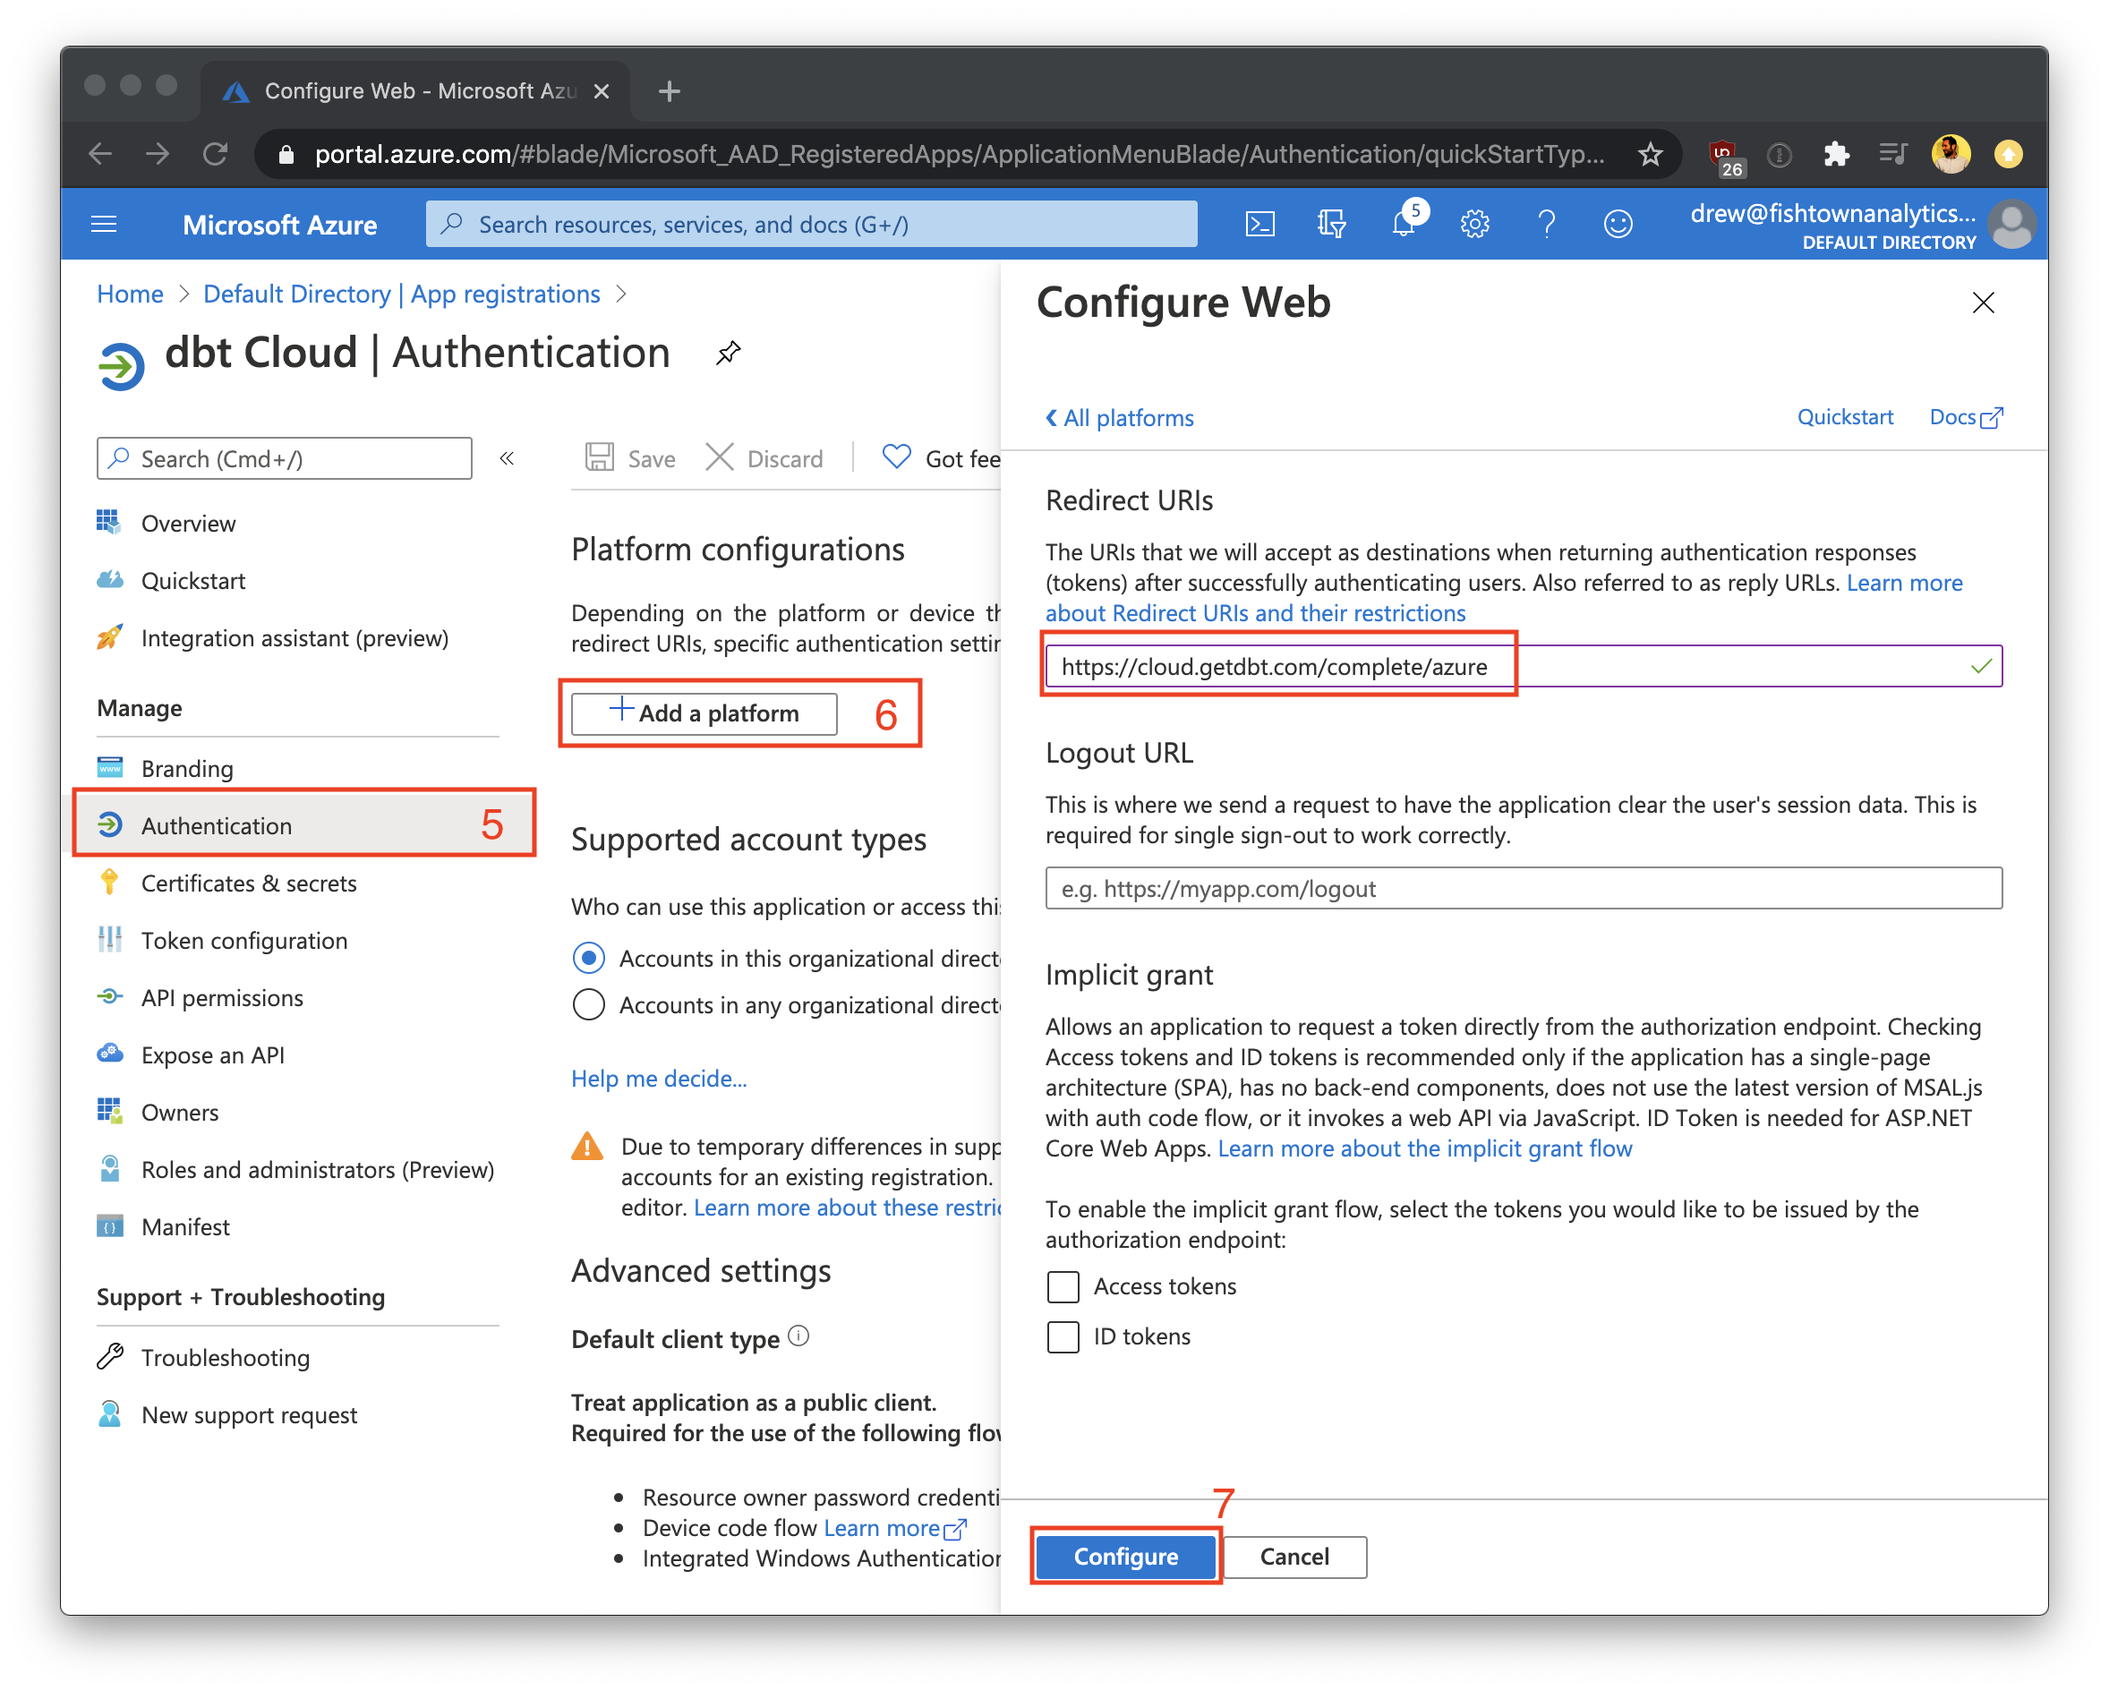
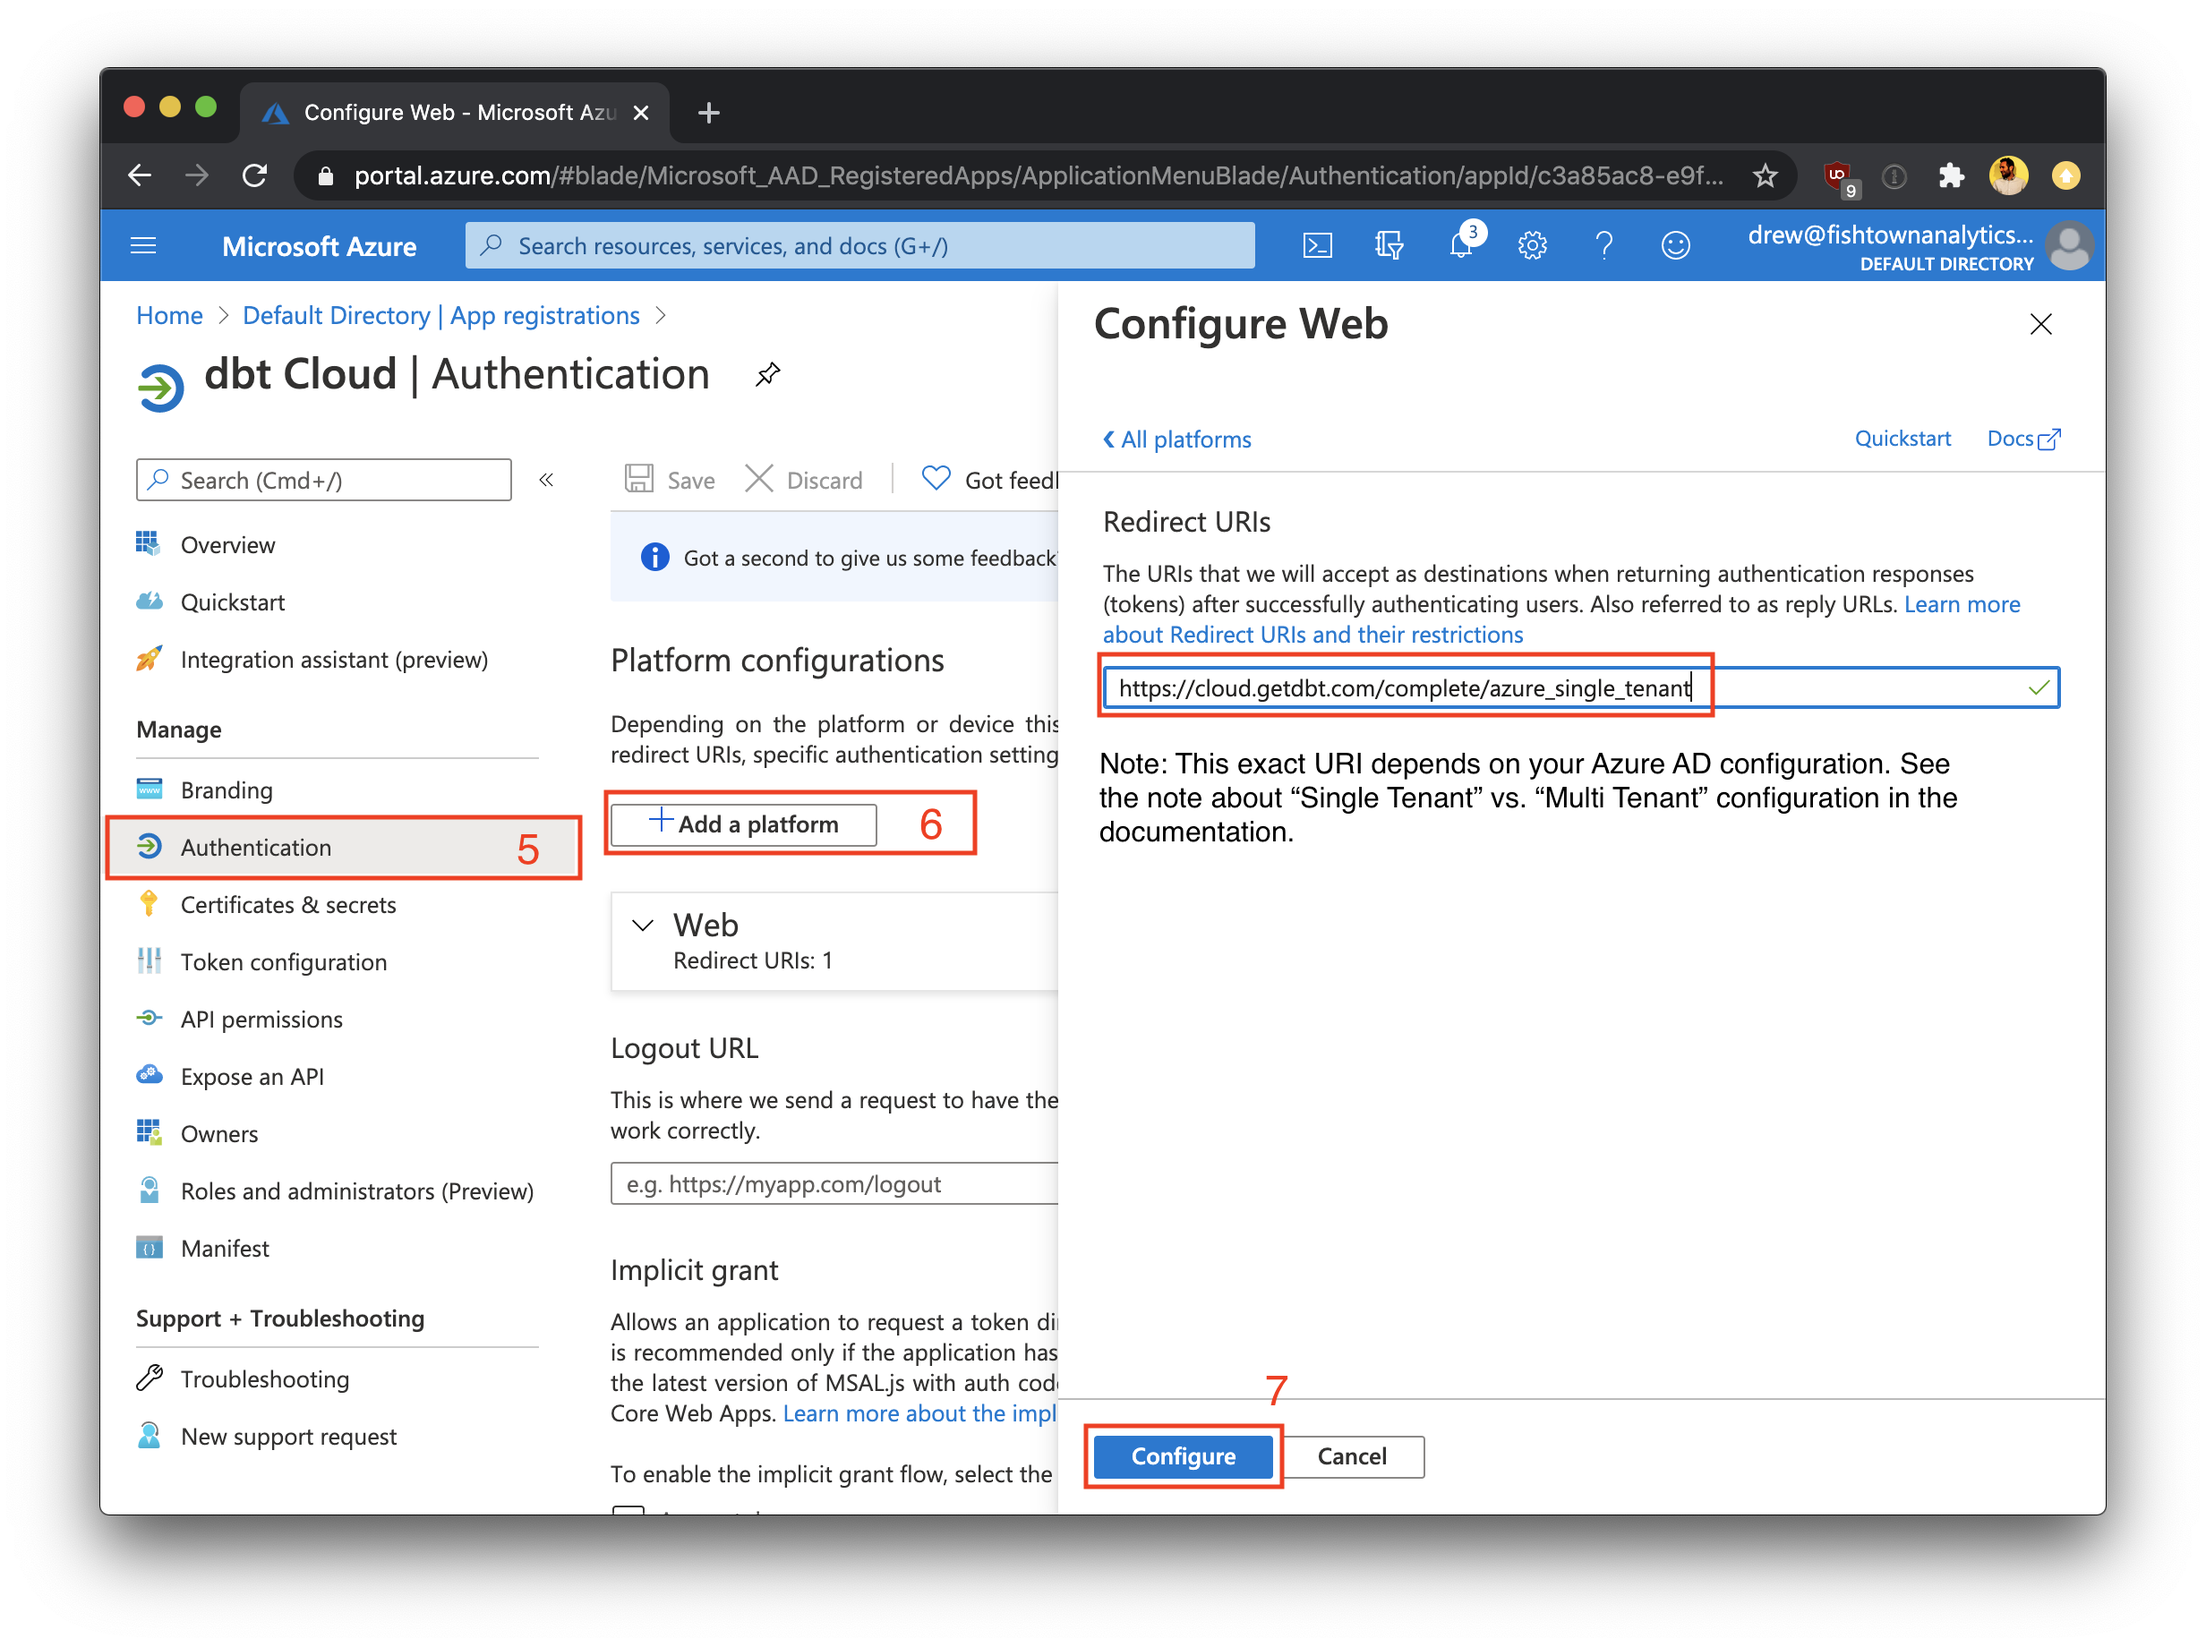
PR feedback

Changed region(s): [[0.0, 0.0, 0.9915, 0.9913], [0.4958, 0.7125, 0.8986, 0.8054]]

diff --git a/website/docs/docs/dbt-cloud/dbt-cloud-enterprise/setting-up-enterprise-sso-with-azure-active-directory-native.md b/website/docs/docs/dbt-cloud/dbt-cloud-enterprise/setting-up-enterprise-sso-with-azure-active-directory-native.md
@@ -21,7 +21,7 @@ Currently supported features include:
 ## Configuration
 
 dbt Cloud supports both single tenant and multitenant Azure Active Directory SSO
-Connections. For most Enterprise purposes, you will want to use the Single
+Connections. For most Enterprise purposes, you will want to use the single
 tenant flow when creating an Azure AD Application.
 
 ### Creating an application
@@ -53,17 +53,22 @@ the dbt Cloud application is deployed instead of `https://cloud.getdbt.com` in
 the **Redirect URI** configuration shown below.
 :::
 
-
 5. Under **Manage**, click the **Authentication** link
-6. Add a **Platform configuration** for the dbt Cloud **Redirect URI**
+6. Add a **Platform configuration** for the dbt Cloud **Redirect URI**. For most
+   typical enterprise use-cases, you will only need to supply the Single-Tenant
+   Redirect URI shown below.
 
-| Field | Value |
+| Application Type | Redirect URI |
 | ----- | ----- |
-| Redirect URI | `https://cloud.getdbt.com/complete/azure` |
+| Single-Tenant _(recommended)_ | `https://cloud.getdbt.com/complete/azure_single_tenant` |
+| Multi-Tenant | `https://cloud.getdbt.com/complete/azure_multi_tenant` |
 
 7. Verify that the Redirect URI has been added successfully and save the page to continue
 
 <Lightbox collapsed="true" src="/img/docs/dbt-cloud/dbt-cloud-enterprise/azure/azure-redirect-uri.png" title="Configuring a Redirect URI"/>
+
+
+
 
 ### Configuring permissions
 
